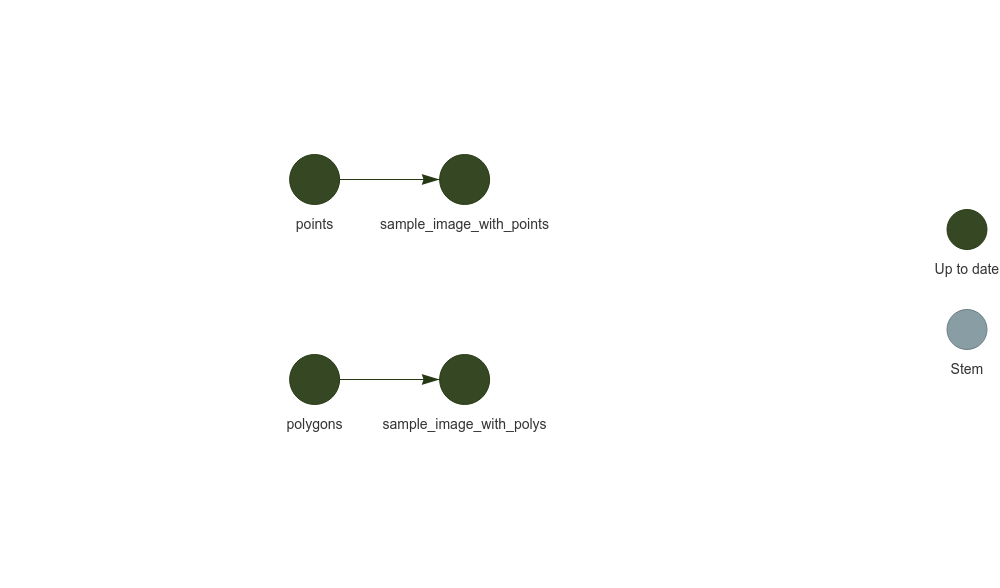
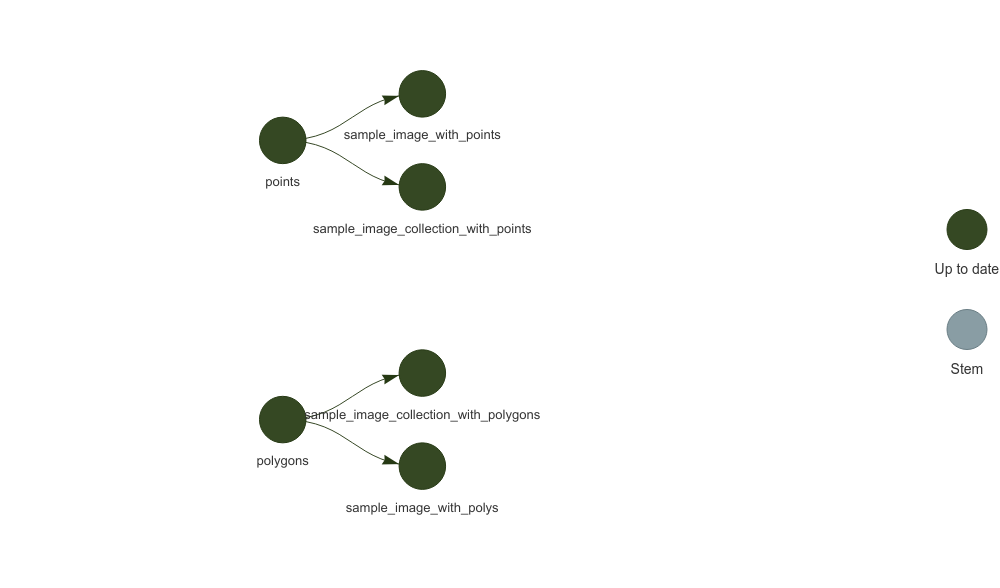
render

Changed region(s): [[0.248, 0.5816, 0.558, 0.8878], [0.248, 0.1224, 0.558, 0.398]]

diff --git a/README.md b/README.md
@@ -9,7 +9,8 @@ For example, extract the maximum elevation in each polygon
 (“elevation”):
 
 ``` r
-head(tar_read(sample_image_with_polys))
+tar_load(sample_image_with_polys)
+head(sample_image_with_polys)
 ```
 
     ## Simple feature collection with 6 features and 2 fields
@@ -25,12 +26,19 @@ head(tar_read(sample_image_with_polys))
     ## 5  5       373 POLYGON ((-74.7963 46.53405...
     ## 6  6       310 POLYGON ((-74.72462 46.5243...
 
+``` r
+plot(sample_image_with_polys)
+```
+
+![](README_files/figure-gfm/unnamed-chunk-3-1.png)<!-- -->
+
 ### Sample image with points
 
 For example, extract the leading tree species at each point (“b1”):
 
 ``` r
-head(tar_read(sample_image_with_points))
+tar_load(sample_image_with_points)
+head(sample_image_with_points)
 ```
 
     ## Simple feature collection with 6 features and 2 fields
@@ -46,11 +54,99 @@ head(tar_read(sample_image_with_points))
     ## 5  5 26 POINT (-74.83523 46.43082)
     ## 6  6  6  POINT (-74.7969 46.48492)
 
-<!-- 
+``` r
+plot(sample_image_with_points['b1'])
+```
+
+![](README_files/figure-gfm/unnamed-chunk-4-1.png)<!-- -->
+
 ### Sample image collections with polygons
 
+For example, extract the monthly water detection within polygons (2 =
+water, 1 = land)
+
+``` r
+tar_load(sample_image_collection_with_polygons)
+head(sample_image_collection_with_polygons)
+```
+
+    ## Simple feature collection with 6 features and 5 fields
+    ## Geometry type: POLYGON
+    ## Dimension:     XY
+    ## Bounding box:  xmin: -74.83679 ymin: 46.41328 xmax: -74.72176 ymax: 46.53996
+    ## Geodetic CRS:  WGS 84
+    ##   id X2018_05_water X2018_06_water X2018_07_water X2018_08_water
+    ## 1  1       1.000681       1.000681       1.000000      1.0000000
+    ## 2  2       1.007217       1.007104       1.003295      0.9961297
+    ## 3  3       1.000000       1.000000       1.000000      1.0000000
+    ## 4  4       1.000000       1.000000       1.000000      1.0000000
+    ## 5  5       1.054149       1.054125       1.050400      1.0458816
+    ## 6  6       1.045094       1.042770       1.030042      1.0262809
+    ##                         geometry
+    ## 1 POLYGON ((-74.82771 46.4962...
+    ## 2 POLYGON ((-74.73499 46.4376...
+    ## 3 POLYGON ((-74.73261 46.4810...
+    ## 4 POLYGON ((-74.79072 46.4221...
+    ## 5 POLYGON ((-74.7963 46.53405...
+    ## 6 POLYGON ((-74.72462 46.5243...
+
+``` r
+plot(sample_image_collection_with_polygons)
+```
+
+![](README_files/figure-gfm/unnamed-chunk-5-1.png)<!-- -->
+
 ### Sample image collections with points
--->
+
+For example, Landsat 8 bands at each point:
+
+``` r
+tar_load(sample_image_collection_with_points)
+head(sample_image_collection_with_points)
+```
+
+    ## Simple feature collection with 6 features and 7 fields
+    ## Geometry type: POINT
+    ## Dimension:     XY
+    ## Bounding box:  xmin: -74.83523 ymin: 46.41165 xmax: -74.6694 ymax: 46.50514
+    ## Geodetic CRS:  WGS 84
+    ##   id LC08_015028_20180910_SR_B1 LC08_015028_20180910_SR_B2
+    ## 1  1                      29472                      29089
+    ## 2  2                      29612                      29295
+    ## 3  3                      30448                      30169
+    ## 4  4                      30526                      30103
+    ## 5  5                      27204                      26891
+    ## 6  6                      28946                      28574
+    ##   LC08_016027_20180901_SR_B1 LC08_016027_20180901_SR_B2
+    ## 1                      32351                      32438
+    ## 2                      30442                      30326
+    ## 3                      26421                      26480
+    ## 4                      14816                      14795
+    ## 5                      34922                      34877
+    ## 6                      37775                      37170
+    ##   LC08_016028_20180901_SR_B1 LC08_016028_20180901_SR_B2
+    ## 1                      32223                      32290
+    ## 2                      30206                      30091
+    ## 3                      26532                      26603
+    ## 4                      15209                      15266
+    ## 5                      34706                      34309
+    ## 6                      37225                      36657
+    ##                     geometry
+    ## 1  POINT (-74.6694 46.49735)
+    ## 2 POINT (-74.67346 46.41165)
+    ## 3  POINT (-74.72348 46.4236)
+    ## 4 POINT (-74.82548 46.50514)
+    ## 5 POINT (-74.83523 46.43082)
+    ## 6  POINT (-74.7969 46.48492)
+
+``` r
+plot(sample_image_collection_with_points)
+```
+
+![](README_files/figure-gfm/unnamed-chunk-6-1.png)<!-- -->
+
+Note - these are spread wide, where each measure is a new column. That
+means they will likely need to be restructured for further processing.
 
 ## Setup
 
